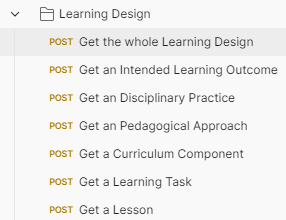
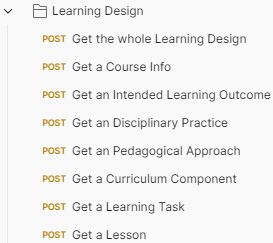
Update wordings in "options-lookup" mentioning the updates of APIs are available in lds-test

diff --git a/docs/options-lookup.md b/docs/options-lookup.md
@@ -19,6 +19,8 @@ Client id and client secrets are required to call the APIs. Please obtain these 
 Please download this Postman collection in json file and import it into your Postman:
 [LDS Rest API for Chatbot.postman_collection.json](/lds/LDS-Rest-API-for-Chatbot.postman_collection.json)
 
+Note: The latest updated APIs are available in https://lds-test.cite.hku.hk. The updates include simplified outputs in the request for Options (Those requests named with "Simplified"), the addition of the "Options Aggregate" endpoint to get multiple options in a single request, and simplfied outputs in the request for "Learning Design".
+
 Steps:
 
 1.  Download Postman: https://www.postman.com/downloads/